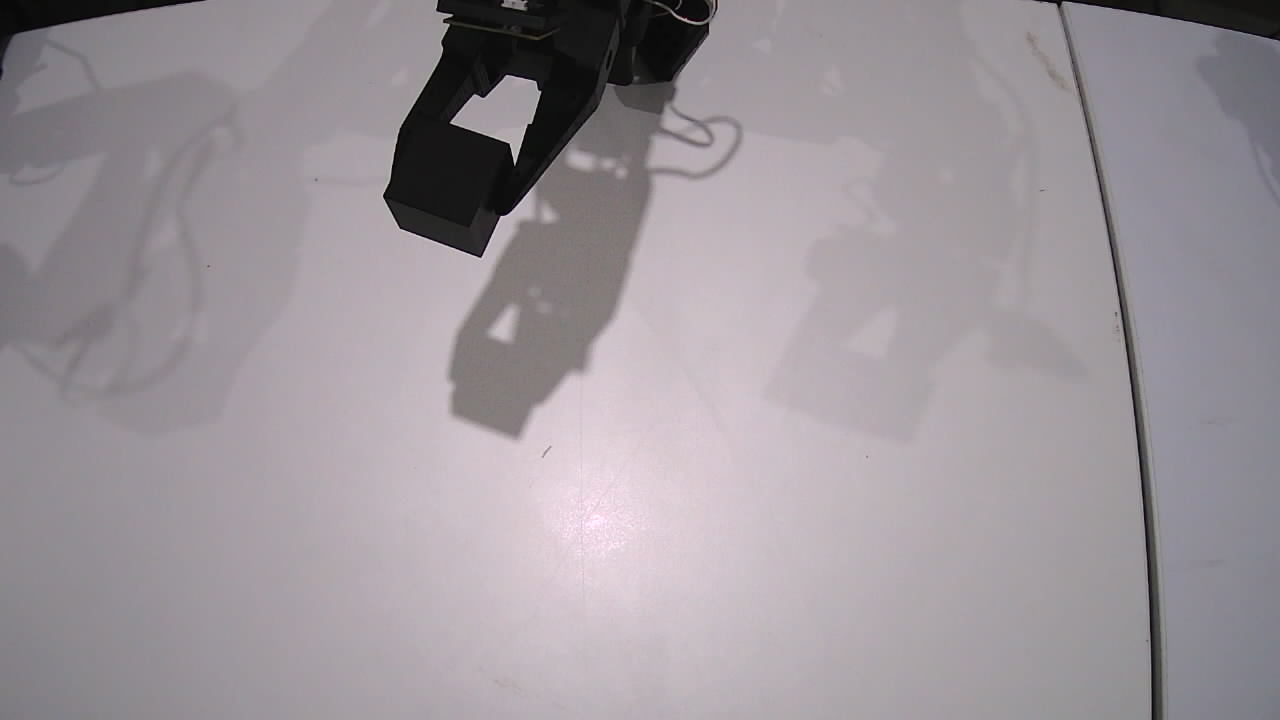
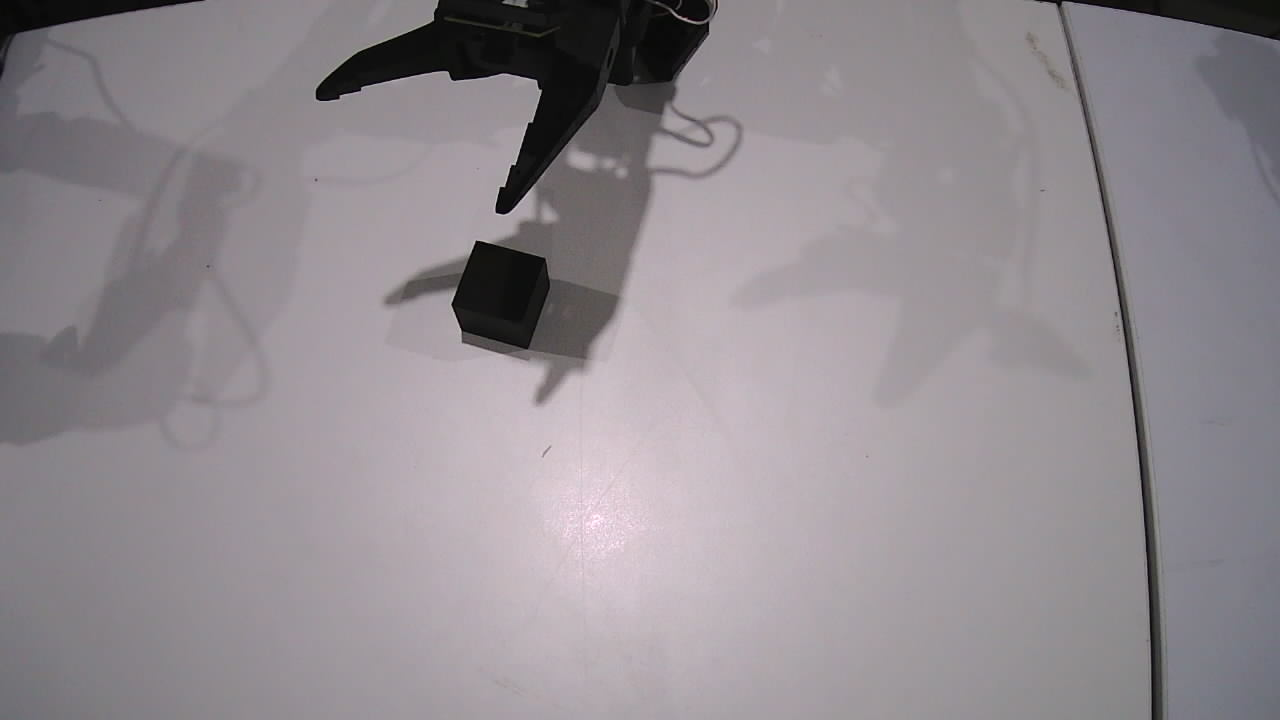
Update tools for arm-006__gpt-6-astra__grasp-cube
{"agent_id": "arm-006__gpt-6-astra__grasp-cube", "baseline_sha256": "6df93a20a05a3dc1a156aa3b51eb1788e2ddcd91056a577397b979b7e33a31ed", "baseline_version": 1, "designation": "arm-006", "experiment_id": "60ddc167-ccd2-416f-ad08-ab3b06d545fc", "fleet_database_enabled": false, "freshness_version": 2, "identity_version": 2, "model": "gpt-6-astra", "preserved_sha256": {"calibration/20261005T100921_180531211/intrinsics.json": "4ec6b1a49abda43063976d392ddf66a39353947ce3d08c35a88e17c021954163", "calibration/20261005T100921_180531211/report.json": "c36605c4f486eda36e5b659a6f6428e72a5679222d74ef6550e54b39fe44cb63", "calibration/20261005T100921_180531211/workspace_map.json": "a057358c35ff4d80235ff64e4b2f909b3d933f39c7657a719e535014511e5796", "calibration/20261005T100921_180531211/workspace_map.npz": "05e9f06fb38099b74b4dcf1a233c88bfe3cfc0e95c144da8c173346c2727279a", "calibration/20261005T100921_180531211/workspace_undistorted.png": "0cf381266158cf31f6acf0bc6fbdf818957f14528b1651d3761cc4271ca91053", "calibration/ready.json": "a2b2addfd83165981076a80147577469be26edadaff97f388cc365b77e7f4986", "cameras.json": "343a8b61bbc2d74885ee73db1cb84786681ef9bdfa17db4ff9f7a2ee160c0ef0", "config/motors/arm-006.json": "2e75c66010c99cdd47926348632396d2a4f09bd195ccb8c200f777b70068611f", "home_pose.json": "908e801e509a421a940722512db24462fd5390764e1e33a5464ccec438febb21", "tools/calibrate_workspace.py": "119afb4f6ffb1f3b424724658b6104c288c5db2a34f2b6faaba2ada84d8aaf17"}, "provider": "codex", "reset_at
[…]

diff --git a/agents/arm-006__gpt-6-astra__grasp-cube/final_report.md b/agents/arm-006__gpt-6-astra__grasp-cube/final_report.md
@@ -1,13 +1,11 @@
-Collection paused for inconsistent temperature feedback.
+Operator-authorized resumption completed17 successful episodes before the updated temperature guard tripped.
 
-51 cumulative successful episodes; 43 recordings without quality flags; 11 unsuccessful episodes. This run added 13 successes. Elapsed 13.5 minutes including alignment, recovery and temperature diagnosis; equivalent rate 58.0 successes/hour over this interval, not a sustained one-hour validation.
+68 successful episodes cumulatively; 59 without recording quality flags; 12 unsuccessful episodes. This resumed run:17 successes,16 clean recordings,1 unsuccessful episode. Elapsed 13.5 minutes including setup and recovery; interval rate 75.5 successes/hour. The planned50-success resumed run was interrupted; this is not a sustained one-hour validation.
 
-Coverage: planned grid indices0–40 completed, with some earlier corrected pickup positions. Indices41–44 remain. Entire-workspace coverage is not complete.
+Coverage: all45 nominal grid locations have now had successful pickup coverage, with earlier position corrections. This is sampled coverage, not certification of every point in the physical workspace. Repeat pass completed indices0–11; index12 failed.
 
-Temperature guard captured62C against the unchanged60C threshold. Subsequent idle trace with gripper torque disabled contained1783 readings ranging47–65C, with abrupt spikes and zero motor fault bits. Physical heating versus temperature feedback error remains unresolved. Further collection should wait for diagnosis. Trace: temperature_idle_trace.json.
+Operator instruction a4b8b931-c9fb-42cd-a0e8-88e8353a0eb8 authorized resumption under the updated65C software guard with70C hardware protection unchanged. Both were verified before motion. The guard tripped on66C during episode20261005T143258-860c6f8a. That episode was marked unsuccessful. No protections were relaxed further. Root cause remains unconfirmed.
 
-Cube visually confirmed on table, arm home within1.10deg, gripper open with torque off. Recorder inactive; all motor fault bits zero.
+A collection process also receivedSIGTERM between episodes after178.6seconds. Arm and cube state were inspected; recorder was inactive with no faults. The placed cube was recovered in a separately recorded successful episode; later commands used shorter batches.
 
-The empty-hand camera check was updated to a higher image region after a cube on the table triggered the lower region; saved evidence distinguishes held images (dark fraction at least0.54) from released images (0.0). The check additionally requires open jaws. Held-object checks remain unchanged.
-
-Latest read-only diagnostic: no new episodes. Reproduced single-register spikes to66C with gripper torque off; immediately following paired-register reads returned47C. See temperature_diagnosis.md and temperature_crosscheck_extended.json. Motion remains stopped pending diagnosis.
+Final state: cube visually confirmed on tabletop; arm home within1.275deg; gripper open with torque off; recording inactive; all motor fault bits zero. Post-release temperature49C, hardware protection70C.
